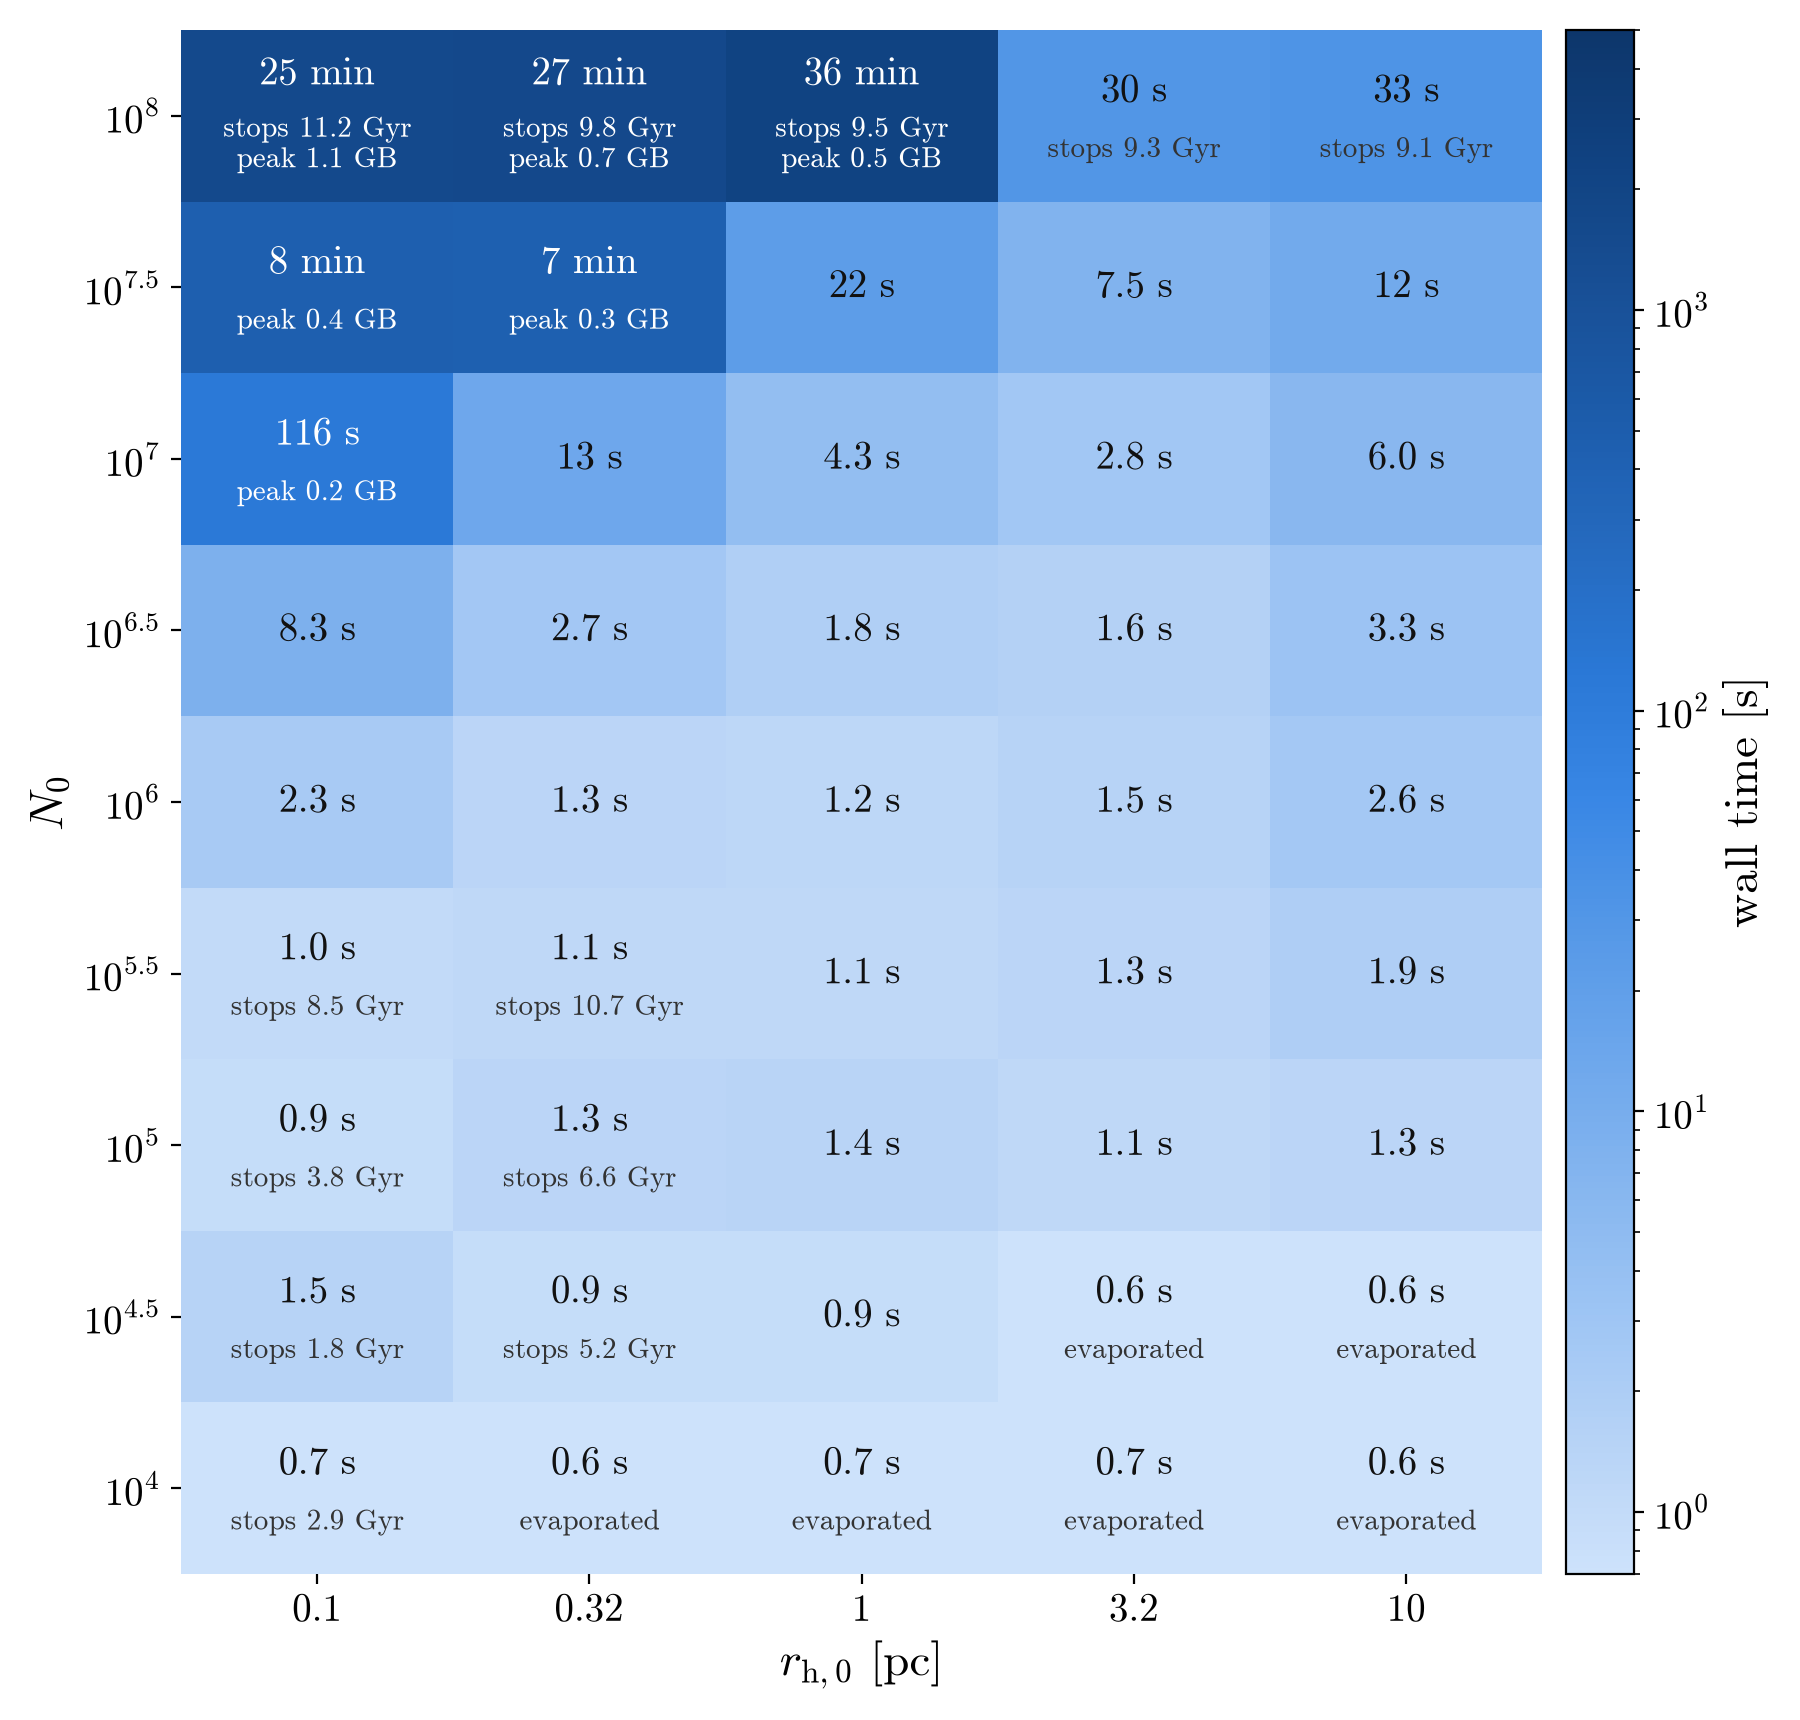
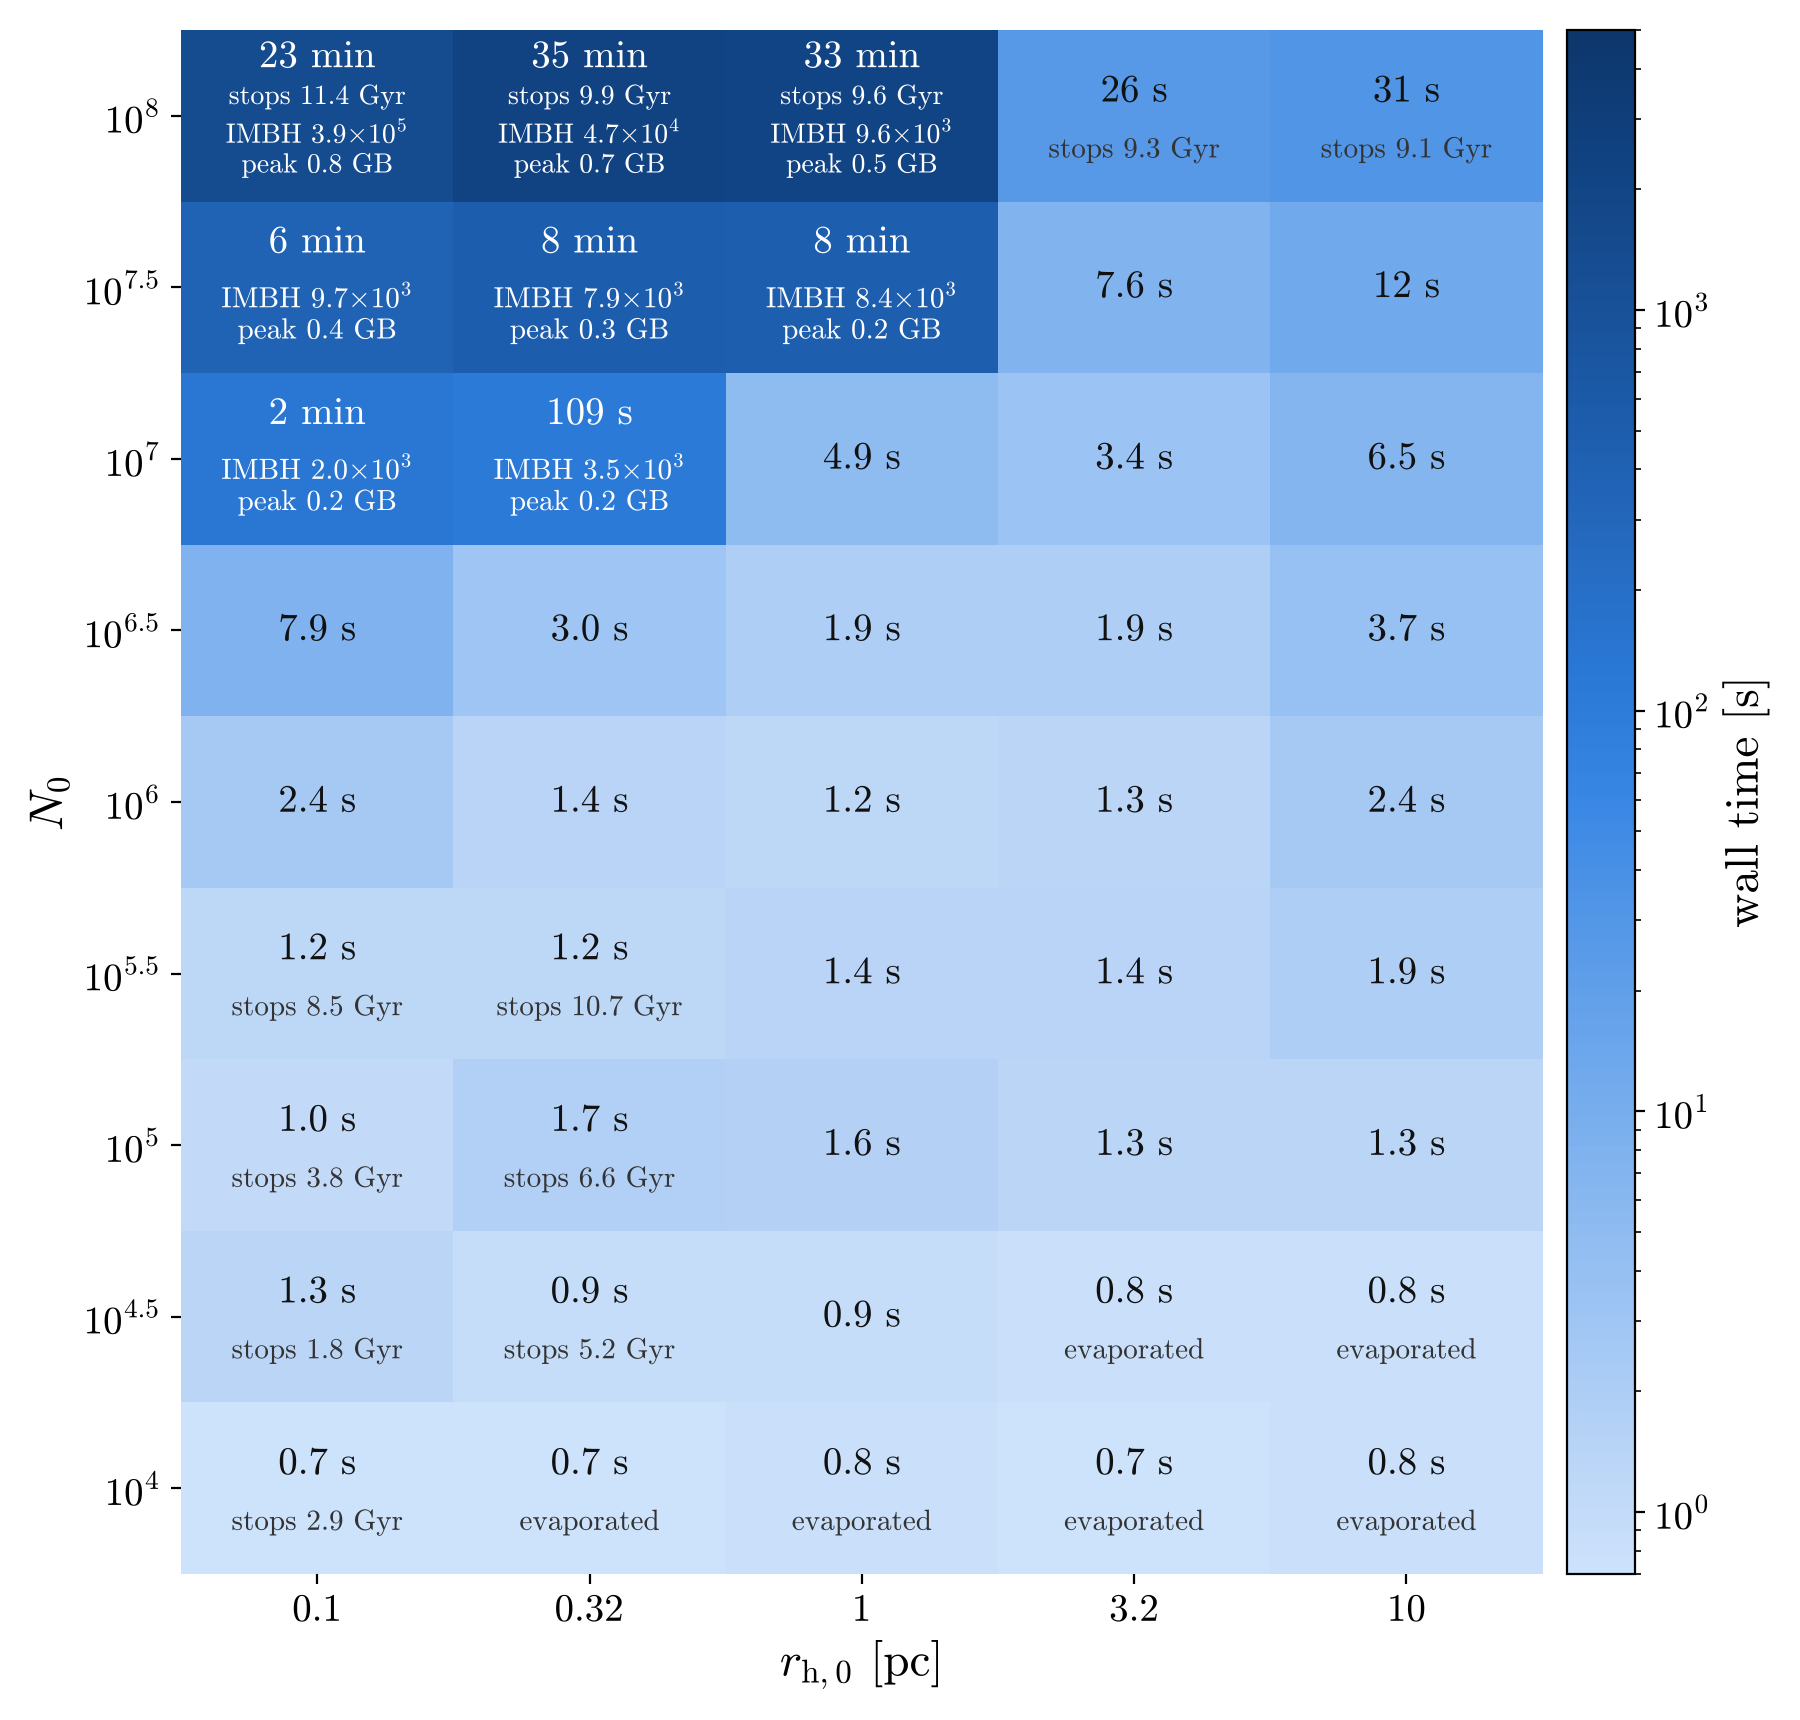
Version 2.16.0: ~2x faster for compact clusters, statistically equivalent results; README Section 8 with new run-time map

diff --git a/CHANGELOG.md b/CHANGELOG.md
@@ -4,7 +4,7 @@ All notable changes to Rapster will be documented in this file.
 
 ## [2.16.0] - 2026-10-29
 
-Faster for compact clusters, with statistically equivalent results. Three changes use the random numbers differently (below), so a given seed can give another realization than 2.15.1, with the same distributions: in clusters with up to ~1.3e5 single BHs, only time steps with several BH-star TDEs or several GW captures are affected (the default run is identical to 2.15.1 except the last digits of `v_rel` in `tdes.txt`; 24 of the 32 test configurations differ, and all of them run to the end). Validated against 2.15.1 with 600 runs of N = 2e6, r_h = 0.3 pc (numbers of mergers by channel, of TDEs, three-body binaries, GW captures, exchanges and BBH-BBH interactions, final numbers and masses of the BHs, and merger and TDE properties, per run: all within 1.3 standard errors) and 40 runs of the first 20 Myr of N = 1e8, r_h = 0.1 pc (~5e5 TDEs and ~8e4 mergers each, in pools of ~6e5 single BHs: all within 1.7 standard errors) and 500 runs of an NS-rich cluster, `-NS 1 -N 2e6 -r 0.3 -Z 0.02` (~21 BNS and ~9.5 NSBH mergers per run: their numbers per channel, masses, merger times, remnants and kicks, and the TDEs by NSs, all within 1.2 standard errors); earlier versions of these changes were also compared on 400 runs of the default cluster and 60 runs of N = 1e7, r_h = 0.1 pc to 400 Myr. Paired timings (the two versions running side by side): vs 2.15.0, 1.9x for the full run of N = 10^7.5, r_h = 0.1 pc (513 -> 267 s; 396 s with 2.15.1), 2.0x for the first 25 Myr of N = 1e8, r_h = 0.1 pc (155 -> 79 s; 1.8x vs 2.15.1), 1.25x for N = 2.5e7, r_h = 0.41 pc to 400 Myr (13.6 -> 10.9 s), 1.4x for a 2e4 Msun seed BH in N = 2e6, r_h = 0.3 pc, n = 4e7 pc^-3 (35.5 -> 25.5 s, as 2.15.1), unchanged for ordinary clusters. Peak memory is unchanged.
+Faster for compact clusters, with statistically equivalent results. Three changes use the random numbers differently (below), so a given seed can give another realization than 2.15.1, with the same distributions: in clusters with up to ~1.3e5 single BHs, only time steps with several BH-star TDEs or several GW captures are affected (the default run is identical to 2.15.1 except the last digits of `v_rel` in `tdes.txt`; 24 of the 32 test configurations differ, and all of them run to the end). Validated against 2.15.1 with 600 runs of N = 2e6, r_h = 0.3 pc (numbers of mergers by channel, of TDEs, three-body binaries, GW captures, exchanges and BBH-BBH interactions, final numbers and masses of the BHs, and merger and TDE properties, per run: all within 1.3 standard errors) and 40 runs of the first 20 Myr of N = 1e8, r_h = 0.1 pc (~5e5 TDEs and ~8e4 mergers each, in pools of ~6e5 single BHs: all within 1.7 standard errors) 100 runs of N = 1e7, r_h = 0.32 pc near the threshold for IMBH formation (a BH grows beyond 1e3 Msun in 15% and 18% of the runs, Fisher p = 0.70; largest BH masses KS p = 0.58), and 500 runs of an NS-rich cluster, `-NS 1 -N 2e6 -r 0.3 -Z 0.02` (~21 BNS and ~9.5 NSBH mergers per run: their numbers per channel, masses, merger times, remnants and kicks, and the TDEs by NSs, all within 1.2 standard errors); earlier versions of these changes were also compared on 400 runs of the default cluster and 60 runs of N = 1e7, r_h = 0.1 pc to 400 Myr. Paired timings (the two versions running side by side): vs 2.15.0, 1.9x for the full run of N = 10^7.5, r_h = 0.1 pc (513 -> 267 s; 396 s with 2.15.1), 2.0x for the first 25 Myr of N = 1e8, r_h = 0.1 pc (155 -> 79 s; 1.8x vs 2.15.1), 1.25x for N = 2.5e7, r_h = 0.41 pc to 400 Myr (13.6 -> 10.9 s), 1.4x for a 2e4 Msun seed BH in N = 2e6, r_h = 0.3 pc, n = 4e7 pc^-3 (35.5 -> 25.5 s, as 2.15.1), unchanged for ordinary clusters. Peak memory is unchanged.
 
 ### Performance (statistically equivalent results)
 - **Pool sums in two levels for large pools** (`bhpool.py`). In pools of more than 1024 blocks (~1.3e5 single BHs, e.g. N = 1e8, r_h = 0.1 pc) the block sums are grouped in superblocks of 64 blocks: a draw locates the random number among the cumulative superblock sums, then among the cumulative block sums of one superblock, then inside one block, and a change of a BH updates the sums of its superblock instead of the cumulative block sums from its block on (O(n/128) per change, which dominated such clusters with ~1e6 TDEs). The sums differ from those of 2.15.1 in the last bits; a draw that falls beyond a sum by rounding is repeated. Smaller pools are drawn as in 2.15.1.
@@ -13,6 +13,9 @@ Faster for compact clusters, with statistically equivalent results. Three change
 
 ### Performance (results unchanged)
 - **Background writer** (`arraycache.py`). The rows of the evolution, hardening and TDE tables (millions in compact clusters) are written to their files by a separate process while the simulation continues (chunks of at least 20000 rows, sent in pieces of 10000 rows; the text is the same). Checkpoints and the end of the run wait until every row is written. Set the environment variable `RAPSTER_BACKGROUND_WRITER=0` to write them from the simulation process as before.
+
+### Changed
+- **README, Section 8 "Run time and memory"**: the run-time map is redone with this version (one core, background writer off), with the mass of the IMBH where one forms, and the text explains the seed-to-seed scatter of the run time near the threshold for IMBH formation (checked with 100 seeds of N = 1e7, r_h = 0.32 pc: 15% and 18% of the runs grow a BH beyond 1e3 Msun with 2.15.1 and 2.16.0) and when to switch the background writer off.
 
 The new tests are in `tests/test_speedups_2160.py`.
 

diff --git a/README.md b/README.md
@@ -465,11 +465,17 @@ The joined tables have the rows of each run up to its restart point followed by 
 <a name="runtime"></a>
 ### 8. Run time and memory
 
-The figure shows the wall-clock time of a simulation as a function of the initial number of stars $N_0$ (``-N``) and half-mass radius $r_{\rm h,0}$ (``-r``), for version 2.15.0 on one core of a laptop-class CPU (two simulations running at a time). All other parameters are at their default values (seed ``-S 1``, ``-BOi 0``): metallicity $Z=0.001$, formation redshift $z=3$, galactocentric radius 8 kpc, no residual gas, and the default central density $n\simeq0.53N_0/r_{\rm h,0}^3$. Each run continues until one of the stopping conditions above; where this happens before redshift 0, the cell gives the time reached (``stops ... Gyr``) or ``evaporated`` (no BHs left within the first ~10 Myr, typically because the natal kicks exceed the escape velocity of a small cluster). For runs longer than one minute the peak memory is also given.
+The figure shows the wall-clock time of a simulation as a function of the initial number of stars $N_0$ (``-N``) and half-mass radius $r_{\rm h,0}$ (``-r``), for version 2.16.0 on one core of a laptop-class CPU (two simulations running at a time, with the background writer of the tables switched off, ``RAPSTER_BACKGROUND_WRITER=0``, so that each run uses a single core). All other parameters are at their default values (seed ``-S 1``, ``-BOi 0``): metallicity $Z=0.001$, formation redshift $z=3$, galactocentric radius 8 kpc, no residual gas, and the default central density $n\simeq0.53N_0/r_{\rm h,0}^3$. Each run continues until one of the stopping conditions above; where this happens before redshift 0, the cell gives the time reached (``stops ... Gyr``) or ``evaporated`` (no BHs left within the first ~10 Myr, typically because the natal kicks exceed the escape velocity of a small cluster). Where the most massive BH grows beyond $10^3\,M_\odot$, the cell gives its largest mass in $M_\odot$ (``IMBH ...``); for runs longer than one minute it also gives the peak memory.
 
 ![Runtime](.assets/runtime_map.png)
 
-Most clusters take a few seconds. The cost grows steeply in the compact, massive corner ($N_0\gtrsim3\times10^7$, $r_{\rm h,0}\lesssim1$ pc), where an intermediate-mass BH forms through repeated mergers: there a run records $10^6$-$10^7$ three-body binaries and BBH-single encounters and up to $\sim10^6$-$10^7$ tidal disruptions, and takes from minutes to under an hour. The run time is roughly proportional to the number of these events (about 0.07-0.2 ms each) and changes from seed to seed, especially in this corner, where the growth of the IMBH varies. The output tables are written during the run, so memory stays below ~1-2 GB even for $N_0=10^8$.
+Most clusters take a few seconds. The cost grows steeply in the compact, massive corner ($N_0\gtrsim10^7$ with $r_{\rm h,0}\lesssim0.3$ pc, $N_0\gtrsim3\times10^7$ with $r_{\rm h,0}\lesssim1$ pc), where an intermediate-mass BH forms through repeated mergers: there a run records $10^6$-$10^7$ three-body binaries and BBH encounters and up to $\sim10^6$-$10^7$ tidal disruptions, and takes from minutes to about half an hour. The run time is roughly proportional to the number of BBH encounters, about 0.1-0.2 ms each, so it is set by how much the IMBH grows rather than by $N_0$ alone.
+
+The run time of a given cluster therefore changes from seed to seed, most of all near the threshold for IMBH formation. For example, for $N_0=10^7$ and $r_{\rm h,0}=0.32$ pc, 15-20% of the seeds grow a BH beyond $10^3\,M_\odot$ (checked with 100 seeds), and these runs take about 1.5 min instead of about 12 s; seed 1 is one of them with this version (with version 2.15.x the same seed gives another realization, without an IMBH, in 13 s). For the same reason the map is not a comparison between versions: paired runs of the same cluster are (see ``CHANGELOG.md``). Version 2.16.0 is up to about 2x faster than 2.15.0 for clusters with $\gtrsim10^5$ single BHs and many tidal disruptions and GW captures (e.g. 513 to 267 s for the full run of $N_0=10^{7.5}$, $r_{\rm h,0}=0.1$ pc, and 155 to 79 s for the first 25 Myr of $N_0=10^8$, $r_{\rm h,0}=0.1$ pc), 1.1-1.5x faster for other clusters that form an IMBH, and as fast for the others. Timings also depend on the machine and on what else runs on it.
+
+By default, the large chunks of the output tables are written by a separate process while the simulation continues (Section 9). With a spare core this saves the time spent writing them, about 5-10% of the run time in the compact, massive corner. When every core already runs a simulation (e.g. a population of clusters run in parallel), set ``RAPSTER_BACKGROUND_WRITER=0`` so that the writers do not compete with the simulations for the cores; the files are the same either way.
+
+The tables are written during the run, so memory stays below ~1 GB even for $N_0=10^8$ (0.8 GB at most in the map); the writer process, when it runs, uses another ~0.1 GB.
 
 <a name="outputfiles"></a>
 ### 9. Output files:
